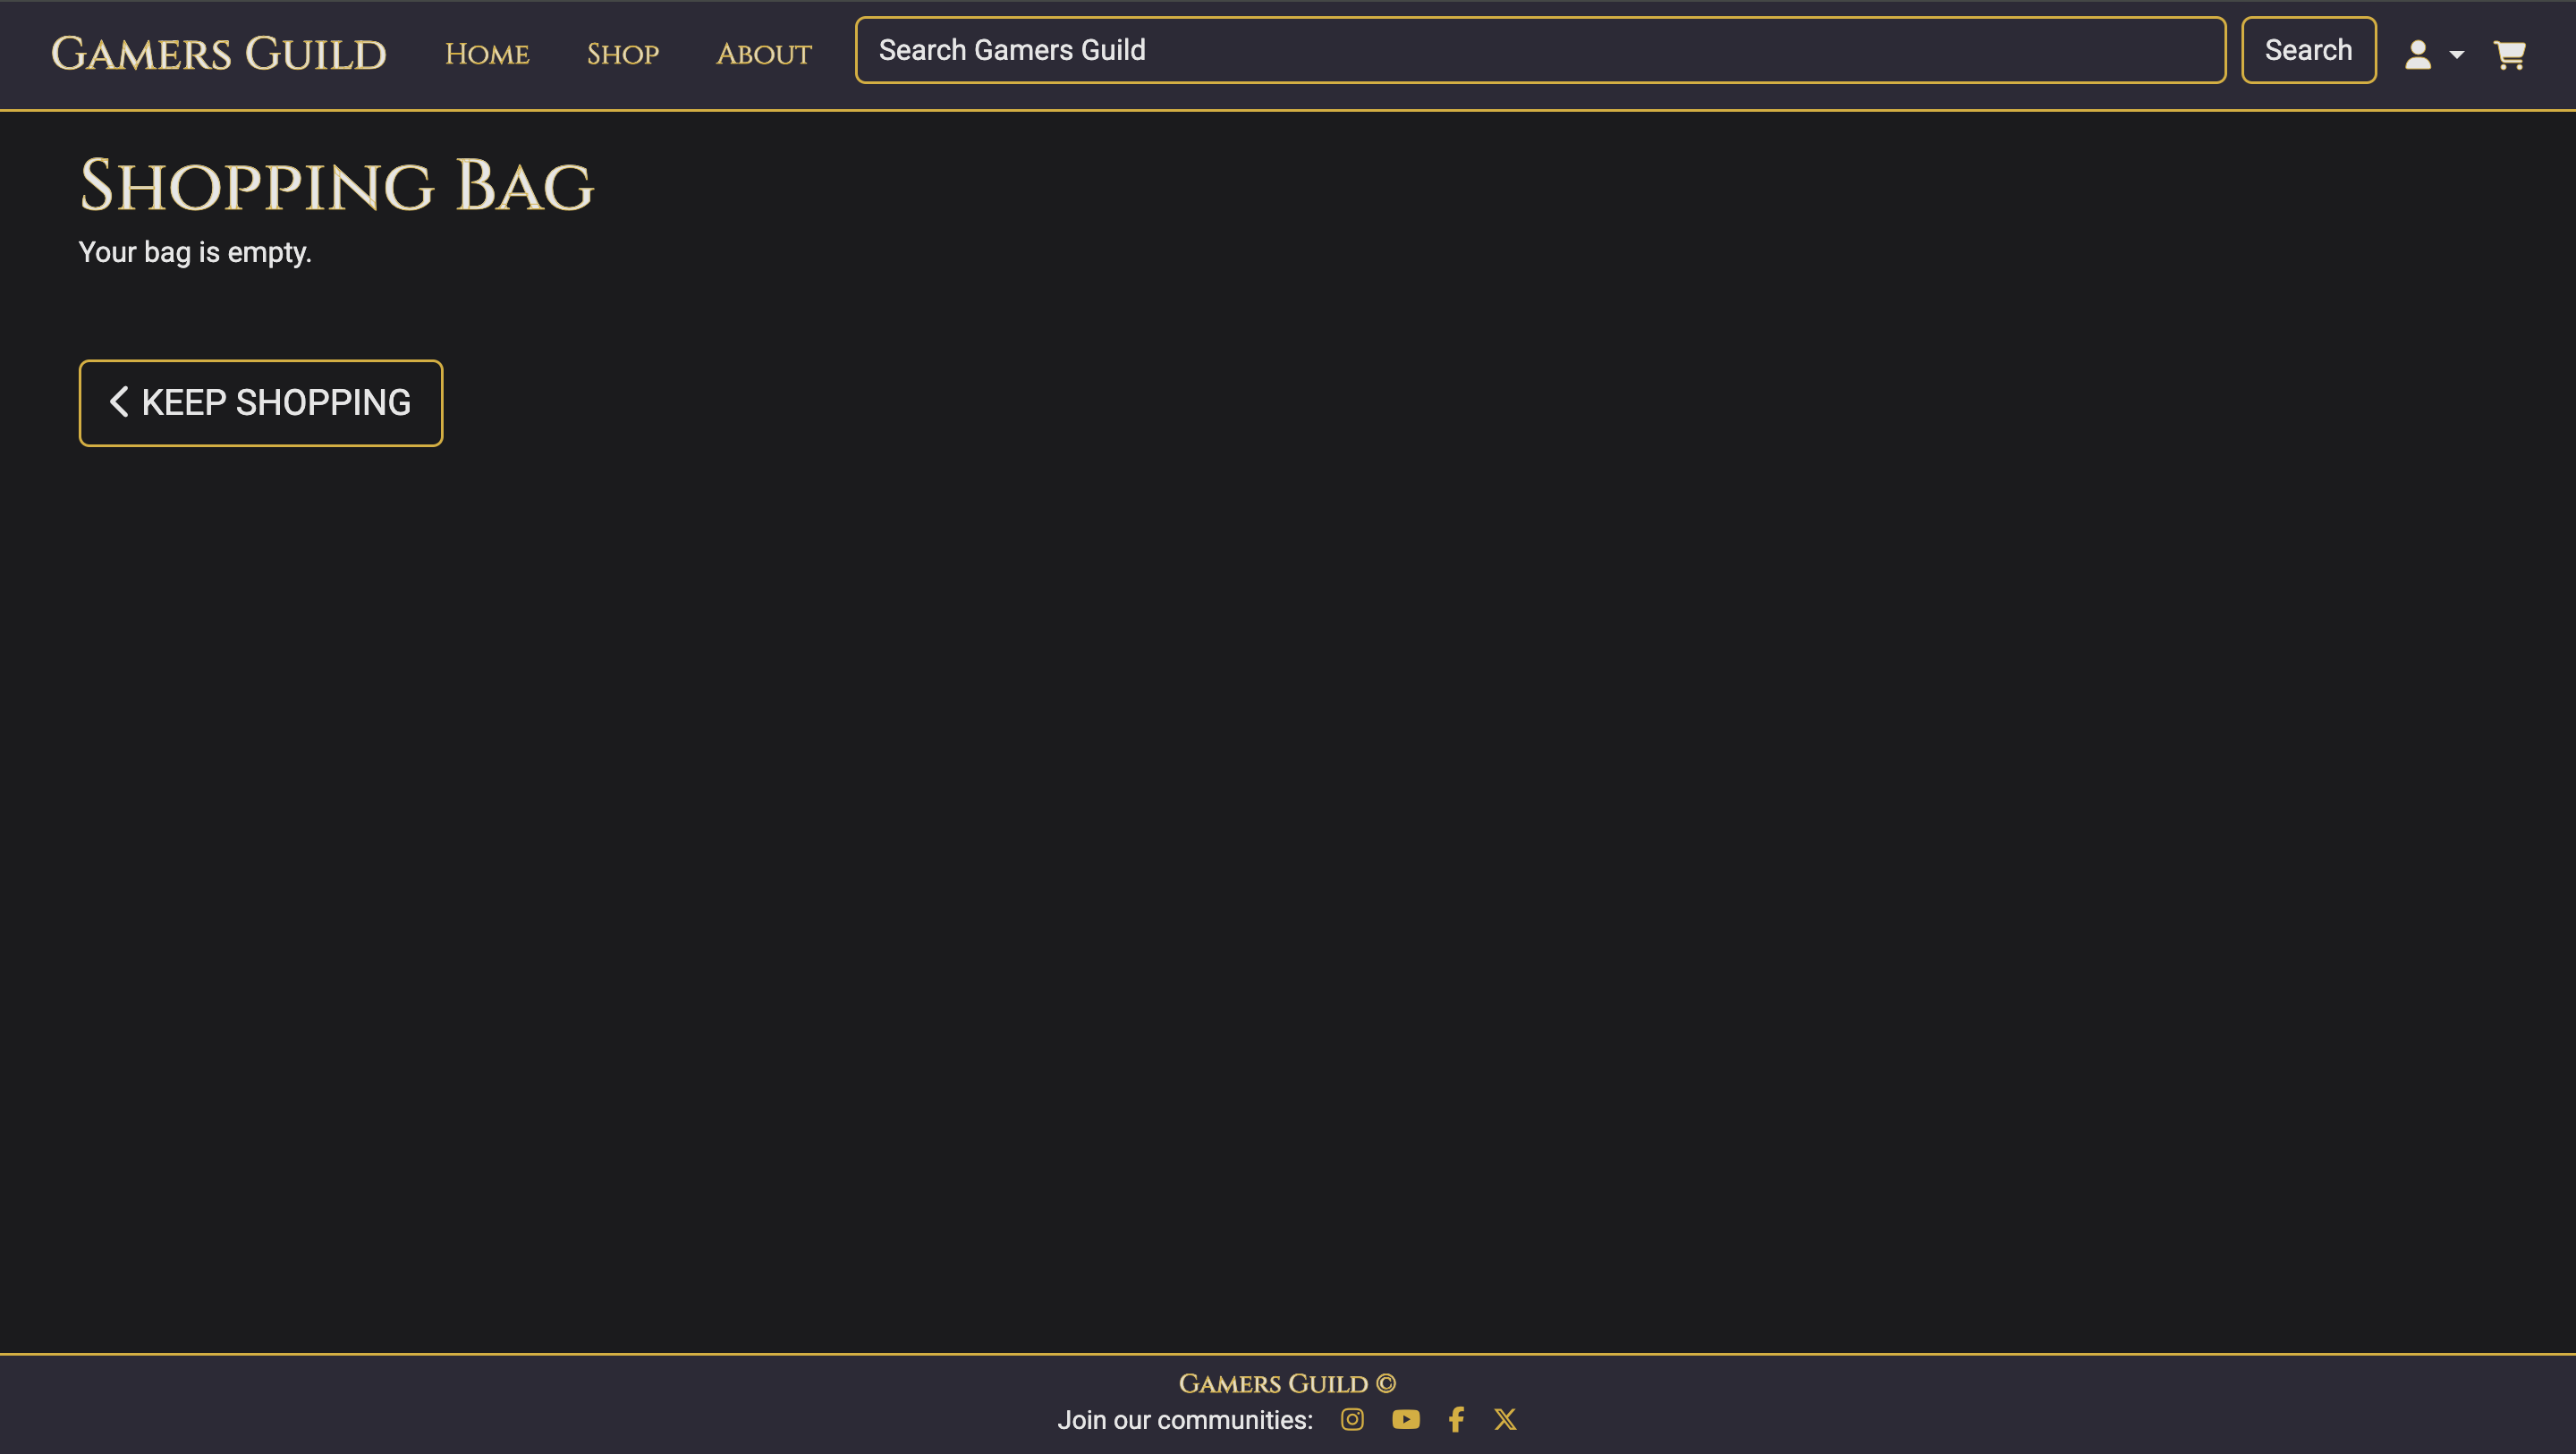
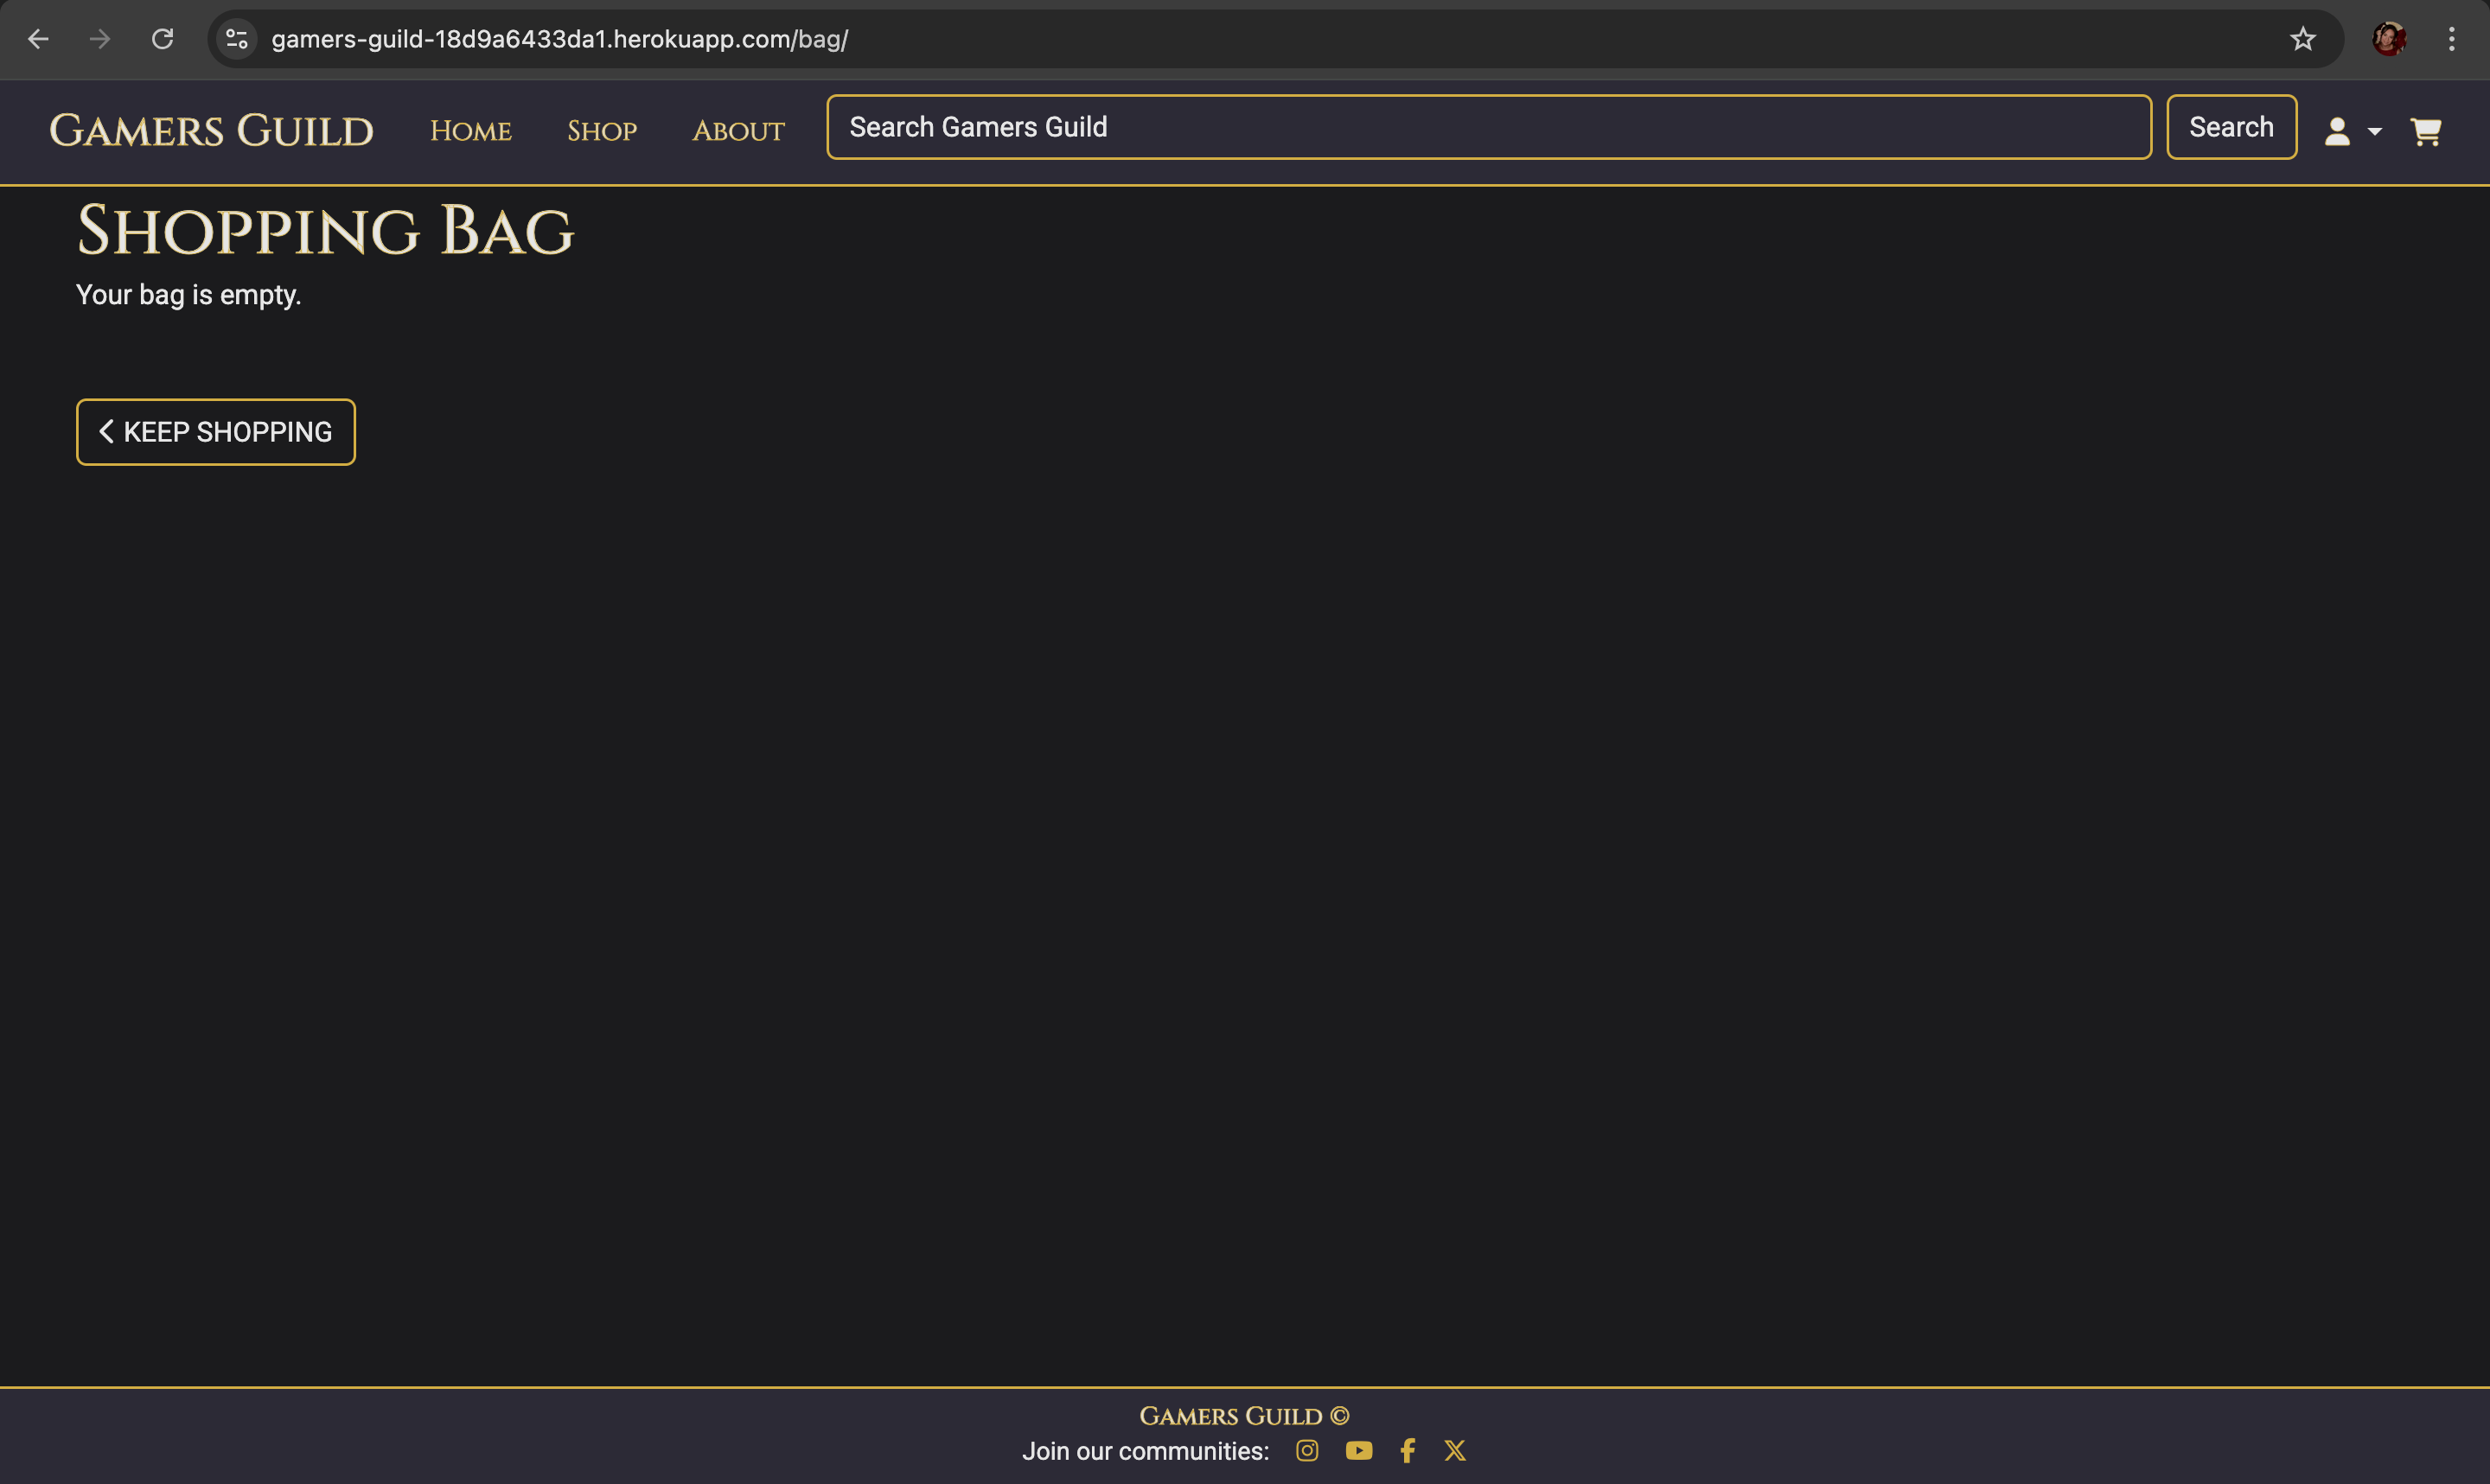
Update add_product and edit_product templates and logic

Changed region(s): [[0.0, 0.0, 1.0, 0.2153], [0.0, 0.9225, 1.0, 0.984], [0.0312, 0.246, 0.1562, 0.3075]]

diff --git a/shop/templates/shop/edit_product.html b/shop/templates/shop/edit_product.html
@@ -23,15 +23,11 @@
             <div class="col-12 col-md-6 mx-auto">
                 <form method="POST" action="{% url 'edit_product' product.id %}" class="form mb-2" enctype="multipart/form-data">
                     {% csrf_token %}
-                    {% for field in form %}
-                        {% if field.name != 'image' %}
-                            {{ field | as_crispy_field }}
-                        {% else %}
-                            {{ field }}
-                        {% endif %}
-                    {% endfor %}
+                    {{ form|crispy }}
+                        <button class="btn" type="submit">
+                           Update Product
+                        </button>
                         <a class="btn" href="{% url 'shop' %}">Cancel</a>
-                        <button class="btn" type="submit">Update Product</button>
                 </form>
             </div>  
         </div>
@@ -41,9 +37,14 @@
 {% block postloadjs %}
     {{ block.super }}
     <script type="text/javascript">
-        $('#new-image').change(function() {
-            var file = $('#new-image')[0].files[0];
-            $('#filename').text(`Image will be set to: ${file.name}`);
-        });
+$('#new-image').on('change', function () {
+    const file = this.files[0];
+
+    if (file) {
+        $('#filename').text(`Image will be set to: ${file.name}`);
+    } else {
+        $('#filename').text('');
+    }
+});
     </script>
 {% endblock postloadjs %}

diff --git a/shop/templates/shop/add_product.html b/shop/templates/shop/add_product.html
@@ -23,17 +23,11 @@
             <div class="col-12 col-md-6 mx-auto">
                 <form method="POST" action="{% url 'add_product' %}" class="form mb-2" enctype="multipart/form-data">
                     {% csrf_token %}
-                    {% for field in form %}
-                        <div class="mb-3 w-100">
-                            {% if field.name != 'image' %}
-                            {{ field|as_crispy_field }}
-                            {% else %}
-                            {{ field }}
-                            {% endif %}
-                        </div>
-                    {% endfor %}
+                    {{ form|crispy }}
+                    <button class="btn" type="submit">
+                        Add Product
+                    </button>
                         <a class="btn" href="{% url 'shop' %}">Cancel</a>
-                        <button class="btn" type="submit">Add Product</button>
                 </form>
             </div>  
         </div>

diff --git a/static/css/base.css b/static/css/base.css
@@ -1037,6 +1037,15 @@ select option[value=""] {
   background-color: var(--primary-color);
 }
 
+input[type="file"]::file-selector-button {
+  background: var(--primary-color);
+  border: var(--primary-highlight) solid 1px;
+  color: var(--text);
+  border-radius: 6px;
+  font-family: var(--font-primary);
+  padding: 0.35rem 0.75rem;
+}
+
 .profile-title {
   max-width: auto;
 }

diff --git a/shop/templates/shop/custom_widget_templates/custom_clearable_file_input.html b/shop/templates/shop/custom_widget_templates/custom_clearable_file_input.html
@@ -29,9 +29,8 @@
        class="d-none"
        {% include "django/forms/widgets/attrs.html" %}>
 
-<label for="id_{{ widget.name }}"
-       class="btn btn-outline-primary">
-    Choose Image
+<label for="id_{{ widget.name }}" class="btn btn-primary">
+    <i class="fas fa-upload me-2"></i> Choose Image
 </label>
 
 <small class="text-muted d-block mt-1" id="filename"></small>

diff --git a/shop/templates/shop/shop.html b/shop/templates/shop/shop.html
@@ -131,7 +131,6 @@
                           <a href="{% url 'shop' %}?category={{ product.category.type }}">{{ product.category.readable_type }}</a>
                         </p>
                       {% endif %}
-                      {% if product.rating %}<small>⭐ {{ product.rating }}/5</small>{% endif %}
                     </div>
                   </article>
                 </div>

diff --git a/shop/forms.py b/shop/forms.py
@@ -17,20 +17,18 @@ class ProductForm(forms.ModelForm):
         model = Product
         fields = '__all__'
 
+    def __init__(self, *args, **kwargs):
+        super().__init__(*args, **kwargs)
 
-def __init__(self, *args, **kwargs):
-    super().__init__(*args, **kwargs)
+        self.helper = FormHelper()
+        self.helper.form_method = 'post'
+        
+        self.fields['category'].queryset = Category.objects.all()
 
-    self.helper = FormHelper()
-    self.helper.form_method = 'post'
-    
-    self.fields['category'].queryset = Category.objects.all()
-
-    self.helper.layout = Layout(
-        Field('name', css_class='form-control rounded-0'),
-        Field('description', css_class='form-control rounded-0'),
-        Field('price', css_class='form-control rounded-0'),
-        Field('category', css_class='form-select rounded-0'),
-        Field('image'),
-        Submit('submit', 'Save Product', css_class='btn btn-primary rounded-0')
-    )
+        self.helper.layout = Layout(
+            Field('name', css_class='form-control rounded-0'),
+            Field('description', css_class='form-control rounded-0'),
+            Field('price', css_class='form-control rounded-0'),
+            Field('category', css_class='form-select rounded-0'),
+            Field('image'),
+        )

diff --git a/README.md b/README.md
@@ -289,7 +289,7 @@ Gamers Guild provides a fully responsive navigation experience across all device
 ### Board Game Display
 Board games are displayed using responsive card layouts featuring:
 
-- Game image
+- An image shown in the proportions of the physical board game box
 - Title
 - Player count
 - Recommended age
@@ -319,7 +319,7 @@ Users can sort games dynamically by:
 Users can refine results using:
 
 - Genre filtering (checkbox based)
-- Player count range selection
+- Player count check box selection
 - Playtime slider filtering
 
 #### Screenshots
@@ -367,6 +367,30 @@ A unified search system across:
 [No games found preview](docs/no-games-found.png "No Games Found Preview")
 
 [No products found preview](docs/no-products-found.png "No Products Found Preview")
+
+## Boardgame Detail Page
+
+### Features
+- An image shown in the proportions of the physical board game box
+- Title
+- Player count
+- Recommended age
+- Playtime
+- Release year
+- Average rating
+- Description
+- Add/remove favourite button with state dependant heart graphic
+- Review and rating section
+- Edit and delete user's own ratings and reviews
+- Overwrite original review and rating when user attempts additional review and rating
+- Pending approvale status indicatior
+- Admin review and rating controls
+
+#### Screenshots
+
+[Boardgame detail](docs/boardgame-detail.png "Boardgame Detail")
+
+[Boardgame detail - reviews section](docs/boardgame-detail-reviews.png "Boardgame Detail | Reviews")
 
 ## Shop & Product Catalogue
 
@@ -431,7 +455,7 @@ Users can sort products by:
 ### Core Features
 - Fully responsive basket layout
 - Separate mobile and desktop interfaces
-- Quantity update controls (AJAX-powered)
+- Quantity update controls
 - Remove item functionality (AJAX)
 - Live subtotal calculations
 - Delivery cost calculation
@@ -579,6 +603,8 @@ Powered by Django Allauth:
 #### Screenshots
 [Admin panel - review controls](docs/admin-review-controls.png "Admin Panel | Review Controls")
 
+[Boardgame detail page - review controls](docs/boardgame-detail-review-controls.png "Boardgame Detail Page | Review Controls")
+
 ## UX, Accessibility & UI Enhancements
 
 ### User Experience Improvements
@@ -586,6 +612,7 @@ Powered by Django Allauth:
 - Scroll-to-top button
 - Empty state handling
 - Defensive UI states
+- Error pages
 
 #### Screenshots
 [Toast example - log in](docs/toast-success-log-in.png "Toast Example | Log In")
@@ -610,11 +637,21 @@ Powered by Django Allauth:
 
 [Review validation on desktop](docs/board-game-detail-form-validation-desktop.png "Review Validation | Desktop")
 
+[Delete review confirmation on desktop](docs/delete-review-confirmation.png "Delete Review Confirmation | Desktop")
+
 [Logged in status on desktop](docs/logged-in-user-display.png "Logged In Status | Desktop")
 
 [Logged out status on desktop](docs/logged-out-user-display.png "Logged Out Status | Desktop")
 
 [Log out danger hover effect](docs/log-out-button-hover.png "Lout Out Danger Hover Effect")
+
+[400 error page preview](docs/400-error.png "400 Error Page")
+
+[403 error page preview](docs/403-error.png "403 Error Page")
+
+[404 error page preview](docs/404-error.png "404 Error Page")
+
+[500 error page preview](docs/500-error.png "500 Error Page")
 
 ### Accessibility Features
 - Semantic HTML
@@ -644,7 +681,7 @@ Powered by Django Allauth:
 - Open Graph tags
 - Keyword optimisation
 
-## Future Enhancements-success
+## Future Enhancements
 
 - Product reviews & ratings
 - Wishlist sharing
@@ -654,12 +691,6 @@ Powered by Django Allauth:
 - Admin analytics dashboard
 - Stock improvements
 - Pagination & lazy loading
-
-[Back to contents](#contents)
-
----------------------------------------------
-
-## Future Enhancements
 
 [Back to contents](#contents)
 